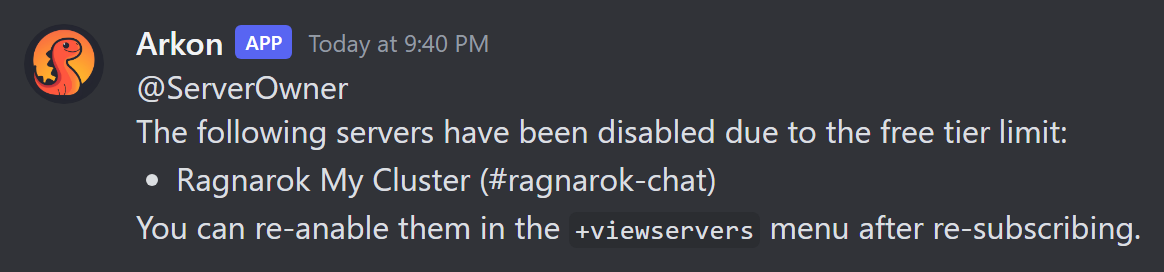
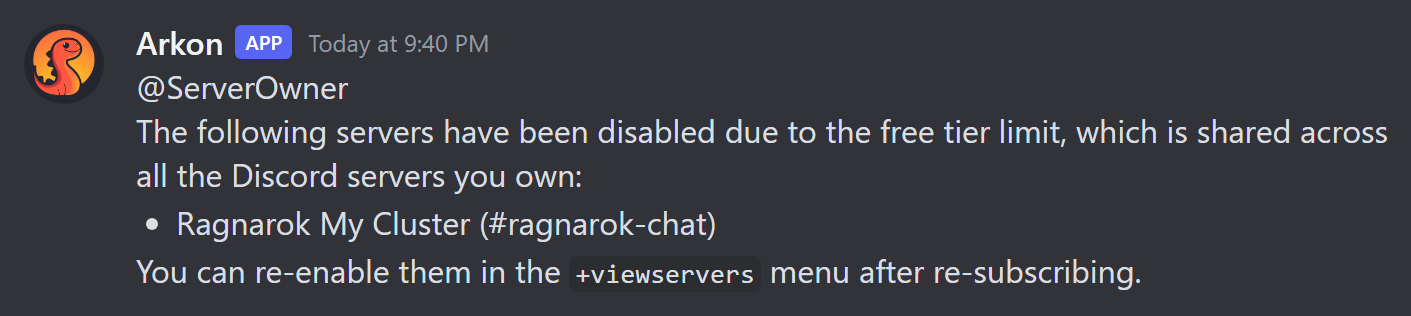
Free plan is 2 servers shared across every Discord the owner has Arkon in, and Arkon no longer leaves extra Discords; ToS states the current server and cluster limits

Changed region(s): [[0.0, 0.0588, 0.9897, 0.7647], [0.0928, 0.7941, 0.9897, 0.9118]]

diff --git a/guides/premium.md b/guides/premium.md
@@ -2,7 +2,7 @@
 title: Arkon Premium - Free vs Premium - Arkon Ark Discord Bot
 description: See what Arkon gives every Ark Discord server for free, what Premium unlocks, what it costs, how to buy it and how to cancel it.
 published: true
-date: 2026-10-25T00:00:00.000Z
+date: 2026-10-27T00:00:00.000Z
 tags: premium, pricing, upgrade, free, cancel
 editor: markdown
 dateCreated: 2024-12-19T23:11:32.671Z
@@ -10,7 +10,7 @@ dateCreated: 2024-12-19T23:11:32.671Z
 
 # Arkon Premium: Free vs Premium
 
-Arkon is free to start. Premium removes the limits (up to 100 servers instead of 1, longer graphs) and unlocks a few extra tools. It costs $10/month after a 3 day free trial, and you buy it on [GlassRelay](https://glassrelay.com/arkon) (the store site Arkon uses).
+Arkon is free to start. Premium removes the limits (up to 100 servers per Discord server instead of 2 in total, longer graphs) and unlocks a few extra tools. It costs $10/month after a 3 day free trial, and you buy it on [GlassRelay](https://glassrelay.com/arkon) (the store site Arkon uses).
 
 **You need:**
 
@@ -36,7 +36,7 @@ D --> E["Your Discord server<br/>is Premium"]
 
 | | Free | Premium |
 |---|---|---|
-| Ark servers per Discord server | 1 | Up to 100 |
+| Ark servers turned on | 2 in total, across every Discord server you own | Up to 100 per Discord server |
 | Scheduled commands | 3 | 20 |
 | Player count history kept | 7 days | Up to 5 years |
 | Status graph length | 1 hour | Up to 12 hours |
@@ -49,9 +49,12 @@ D --> E["Your Discord server<br/>is Premium"]
 | Faster event log delivery | No | Yes |
 | `+rcon` on servers you switched off | No | Yes |
 | Interactive `playerstats` menu (buttons) instead of a plain pager | No | Yes |
-| Discord servers one person can add Arkon to | 1 | 5 |
+| Discord servers one person can add Arkon to | No limit | No limit |
 
 🔹 = needs [ArkView](/guides/arkview). 🔸 = Xbox / Microsoft Store ASE only.
+
+> The 2 free servers are counted per owner, not per Discord server. If you own two Discord servers with Arkon, 1 server turned on in each uses up both. Switched-off servers do not count.
+{.is-info}
 
 Cheated tame scanning also needs ArkView set up and your valid server names filled in.
 
@@ -91,7 +94,7 @@ These have no Premium lock: game chat relay, live status channel, economy and sh
 
 Nothing is deleted at once. Arkon checks every hour and then:
 
-1. Switches off your **newest** Ark servers until only the free number are left. They are switched off, not deleted. The owner gets a ping listing them.
+1. Switches off your **newest** Ark servers, counted across every Discord server you own, until only 2 are left. They are switched off, not deleted. Each Discord server that lost a server gets a message listing them, and the owner is pinged.
 2. Cuts player count history to 7 days. Older data is deleted and does not come back.
 3. Switches off your **oldest** scheduled commands until only 3 are left.
 4. Auto-friend and alt detection settings stay saved but stop working.
@@ -113,19 +116,19 @@ F --> G
 
 To get them back, subscribe again. Then turn servers back on in the `+viewservers` menu (see [Server settings](/guides/server-settings)) and schedules in `+scheduledrcon` (see [Server control](/guides/server-control)).
 
-> Switched-off servers still count toward the limit when you add a new server.
-{.is-warning}
+> Only servers that are turned on count toward the free limit. Switch one off in `+viewservers` to make room for another.
+{.is-info}
 
 ### Messages Arkon posts when this happens
 
 Arkon posts these in your alert channel (set it with `+arkset alertchannel #channel`, Admin or Manage Server). If none is set, it falls back to your event log channel, then your Red mod log channel.
 
-- **Premium ran out (owner has too many servers):** `Premium subscription has expired! Servers over the free tier limit will be disabled soon!` The Discord server owner is pinged.
-- **Servers switched off:** `The following servers have been disabled due to the free tier limit:` then a list like `- The Island My Cluster (#island-chat)`, then `You can re-anable them in the +viewservers menu after re-subscribing.` (the typo "re-anable" is in the bot itself).
+- **Premium ran out (owner has more than 2 servers turned on across their Discord servers):** `Premium subscription has expired! Servers over the free tier limit will be disabled soon!` Arkon posts it in each of the owner's Discord servers that has servers turned on, and pings the owner.
+- **Servers switched off:** `The following servers have been disabled due to the free tier limit, which is shared across all the Discord servers you own:` then a list like `- The Island My Cluster (#island-chat)`, then `You can re-enable them in the +viewservers menu after re-subscribing.` Each Discord server only lists its own servers.
 - **Schedules switched off:** `The following schedule has been disabled due to exceeding the limit of 3 schedules:` followed by the schedule card.
 - **Offline too long (Free only):** `The following servers have been disabled because they've been inactive for 30 days:` with the server names.
 
-<img src="/assets/guide-premium-disabled-servers.png" alt="The servers switched off message" style="width: 582px; max-width: 100%;"/>
+<img src="/assets/guide-premium-disabled-servers.png?v=2" alt="The servers switched off message" style="width: 582px; max-width: 100%;"/>
 
 ## Commands
 
@@ -144,8 +147,8 @@ Admin means someone allowed to manage Arkon. See [Getting Started](/guides/getti
 
 | Problem | Why it happens | Fix |
 |---|---|---|
-| "You cannot have more than 1 server using the free version of Arkon" | You hit the free server limit | Subscribe, or remove a server. Switched-off servers still count |
-| "You have reached the maximum number of enabled servers for the free tier!" | Re-enabling a server in `+viewservers` while at the free limit | Subscribe to Premium, or switch another server off first |
+| "You cannot have more than 2 servers enabled across all the Discord servers you own on the free version of Arkon" | You already have 2 servers turned on, counting every Discord server you own | Subscribe, or switch a server off in any of your Discord servers |
+| "You have reached the maximum number of enabled servers for the free tier, counted across all the Discord servers you own!" | Re-enabling a server in `+viewservers` while at the free limit | Subscribe to Premium, or switch another server off first (it can be in another Discord server you own) |
 | "The total amount of servers I can manage is 100..." | The 100 server cap, even on Premium | Remove a server you no longer use |
 | "Sorry, the maximum time the free version of Arkon allows is 1 hour" | Status graph over 3600 seconds on Free | Use 3600 or less, or subscribe |
 | "The histogram can display a maximum of 12 hours" | More than 43200 seconds | Use 43200 or less |
@@ -154,8 +157,6 @@ Admin means someone allowed to manage Arkon. See [Getting Started](/guides/getti
 | "You have reached the maximum number of schedules for the free tier." | 3 schedules already | Delete one or subscribe |
 | "This feature requires your server owner to have an Arkon Premium subscription!" | Owner has no Premium role | Owner subscribes and joins the support Discord |
 | "You have reached the maximum number of schedules." | 20 schedules already, even on Premium | Delete one you no longer use |
-| Arkon posts "You may have the bot in up to N Discord servers(s) that you own." and leaves | You own more Discord servers with Arkon than your plan allows | See the next row |
-| Arkon left a new Discord server | You already own as many Discord servers with Arkon as your plan allows (1 Free, 5 Premium) | Subscribe, or use Arkon in fewer servers |
 
 ## Related pages
 

diff --git a/guides/server-settings.md b/guides/server-settings.md
@@ -2,7 +2,7 @@
 title: Server Settings - Arkon Ark Discord Bot
 description: Learn the +viewservers menu in Arkon, the Ark Discord bot. Set up clusters, servers, log channels and the general +arkset settings step by step.
 published: true
-date: 2026-10-12T00:00:00.000Z
+date: 2026-10-27T00:00:00.000Z
 tags: settings, clusters, servers, viewservers, arkset, setup, guide
 editor: markdown
 dateCreated: 2026-10-12T00:00:00.000Z
@@ -36,7 +36,7 @@ graph TD
     C --> F["Own settings:<br/>RCON login, chat channel,<br/>on or off"]
 ```
 
-You can have up to 25 clusters and 100 servers in one Discord server. The free version of Arkon allows 1 server; see [Free vs Premium](/guides/premium).
+You can have up to 25 clusters and 100 servers in one Discord server. The free version of Arkon allows 2 servers turned on, counted across every Discord server you own; see [Free vs Premium](/guides/premium).
 
 ## Add your first cluster and server
 
@@ -214,7 +214,7 @@ To rename a server, use the memo button and change the "Server Name" field. The 
 
 ### Free version limits on enabling servers
 
-On the free version, you can only have 1 server turned on. If you press **Disabled** to enable a server and you are at the limit, you see: "You have reached the maximum number of enabled servers for the free tier!". [Arkon Premium](/guides/premium) raises the limit.
+On the free version, you can have 2 servers turned on in total, counted across every Discord server you own that has Arkon. If you press **Disabled** to enable a server and you are at the limit, you see: "You have reached the maximum number of enabled servers for the free tier, counted across all the Discord servers you own!". [Arkon Premium](/guides/premium) raises the limit.
 
 Arkon also turns servers off by itself if they have not been online for 30 days, or if their host or port is invalid. It posts a message in your alert channel (see `+arkset alertchannel`).
 
@@ -226,9 +226,9 @@ These jobs run in the background. You do not start them. You change them with th
 |---|---|---|
 | Every 30 seconds | Arkon asks each enabled server who is online. This keeps "Last Online" fresh and works out whether a server is ASE or ASA. | Disable a server to stop it. |
 | Every 10 minutes | 🔹 Tame limit check (see `+arkset uncryolimit`). | Set the limit to `0`. |
-| Every 2 hours | Deletes player history older than your retention days. Turns off servers that have a bad host or port, or that were offline for 30 days. On the free version it also turns off servers over the free limit, newest first. | `+arkset retention`, fix the server details, or [Premium](/guides/premium). |
+| Every 2 hours | Deletes player history older than your retention days. Turns off servers that have a bad host or port, or that were offline for 30 days. On the free version it also turns off servers over the free limit, newest first, counting every Discord server the owner has Arkon in. | `+arkset retention`, fix the server details, or [Premium](/guides/premium). |
 
-When Arkon turns servers off it posts in your alert channel and tags the Discord server owner. Over the free limit the message reads "The following servers have been disabled due to the free tier limit:" followed by the server names. Offline servers get "The following servers have been disabled because they've been inactive for 30 days:". After you fix the cause, turn the server back on from its server page.
+When Arkon turns servers off it posts in your alert channel and tags the Discord server owner. Over the free limit the message reads "The following servers have been disabled due to the free tier limit, which is shared across all the Discord servers you own:" followed by the server names. Offline servers get "The following servers have been disabled because they've been inactive for 30 days:". After you fix the cause, turn the server back on from its server page.
 
 If Arkon cannot reach a server's ArkView for 10 days in a row, it clears that server's ArkView host and port and posts "The ArkView connection for ... has been reset because it hasn't been able to connect for 10 days straight!" Enter the details again with the **ArkView** button.
 
@@ -441,7 +441,7 @@ Use these at the start of a new season, when you wipe your Ark servers. Each one
 | "Failed to connect!" with "Wrong password!" | You used the join password, not the admin password. | Use the admin password. See [RCON Setup](/guides/rcon-setup). |
 | "Failed to connect!" with "Connection timed out!" or "No response!" | Arkon cannot reach the RCON port. | Check the server has a fixed IP, the RCON port is forwarded as TCP in your router, and the firewall allows it. Make sure you used the RCON port, not the query port. |
 | "A cluster with the name `x` doesn't exist!" | `+addserver` needs the exact lowercase cluster name. | Type the name as it was created, in lowercase. |
-| "You cannot have more than 1 server using the free version of Arkon" | You hit the free server limit. | Remove a server or see [Free vs Premium](/guides/premium). |
+| "You cannot have more than 2 servers enabled across all the Discord servers you own on the free version of Arkon" | You hit the free server limit, counting every Discord server you own. | Switch a server off or see [Free vs Premium](/guides/premium). |
 | "This isn't your menu!" | Someone else pressed a button. | Run `+viewservers` yourself. |
 | "This cluster has no servers added to it!" | You pressed **Servers** on an empty cluster. | Add a server with `+addserver`. |
 | "That tribelog channel is already in use by another log in this cluster!" (or a similar channel error) | Channel sharing rules were broken. | Pick a channel that follows the rules in the Logs section. Nothing was saved, so try again. |

diff --git a/guides/getting-started.md b/guides/getting-started.md
@@ -2,7 +2,7 @@
 title: Getting Started - Arkon Ark Discord Bot
 description: Invite Arkon to Discord and connect your first Ark server with the /setup wizard or by hand. Covers ASE and ASA, Admin and Mod roles, and +checklist.
 published: true
-date: 2026-10-12T00:00:00.000Z
+date: 2026-10-27T00:00:00.000Z
 tags: setup, getting-started, guide, server-owner
 editor: markdown
 dateCreated: 2023-12-10T05:14:02.435Z
@@ -175,7 +175,7 @@ Arkon replies "**main** cluster created!"
 > **Using `+addserver` with ASA?** Arkon guesses ASE or ASA by looking at players who are online during the test. If nobody is online it saves the server as ASE. The `/setup` wizard asks you directly, so use it for an ASA server if you can. There is no ASE/ASA field in the Edit Server form.
 {.is-warning}
 
-> The free version lets you add 1 server. Premium raises it to 100. See [Premium](/guides/premium).
+> The free version lets you have 2 servers turned on, counted across every Discord server you own that has Arkon. Premium raises it to 100 per Discord server. See [Premium](/guides/premium).
 {.is-info}
 
 ---
@@ -234,7 +234,7 @@ Who can run them: anyone with Discord's **Manage Server** permission, or an Admi
 
 - Needs at least one cluster first.
 - Type the cluster name in lowercase.
-- Hard limit of 100 servers per Discord server. The free version allows 1.
+- Hard limit of 100 servers per Discord server. The free version allows 2 turned on, counted across every Discord server you own.
 
 ### +delserver
 
@@ -283,7 +283,7 @@ Pick what you want. None of these is required.
 | "Cluster names can only contain letters and numbers!" | The name has a dash, underscore or symbol | Use only letters and numbers |
 | "That's an address inside your home network..." | You typed a `192.168.x.x` or `10.x.x.x` address in the wizard | Use your public IP from [whatismyip.com](https://whatismyip.com) |
 | "Invalid host address. Please enter a valid IPv4 address or hostname." | You typed the port with the IP, like `203.0.113.25:27020` | Put the IP in Host IP and the port in RCON Port |
-| "You cannot have more than 1 server using the free version of Arkon" | You hit the free server limit | Remove a server or see [Premium](/guides/premium) |
+| "You cannot have more than 2 servers enabled across all the Discord servers you own on the free version of Arkon" | You hit the free server limit, counting every Discord server you own. Both `/setup` and `+addserver` check it | Switch a server off in any of your Discord servers, or see [Premium](/guides/premium) |
 | "That chat channel is already in use by another server!" | Each server needs its own chat channel | Pick a different channel |
 | "This isn't your menu!" or "This setup wizard isn't for you!" | Only the person who ran the command can click its buttons | Run the command yourself |
 | "Database connection is not active, try again later" | Arkon's database was briefly unavailable | Wait a minute and try again |

diff --git a/guides/faq.md b/guides/faq.md
@@ -2,7 +2,7 @@
 title: FAQ & Troubleshooting - Arkon Ark Discord Bot
 description: "Fix common Arkon problems for your Ark Discord server: RCON connection errors, registration, shop, tribe logs, status channel, ArkView, Xbox and permissions."
 published: true
-date: 2026-10-12T00:00:00.000Z
+date: 2026-10-27T00:00:00.000Z
 tags: faq, troubleshooting, help, support
 editor: markdown
 dateCreated: 2026-01-17T00:00:00.000Z
@@ -48,7 +48,7 @@ Arkon is a Discord bot that helps you run Ark: Survival Evolved (ASE) and Ark: S
 
 ### Is Arkon free?
 
-Yes. Free covers the basics for 1 Ark server. [Premium](/guides/premium) removes limits and unlocks a few extra tools.
+Yes. Free covers the basics for 2 Ark servers, counted across every Discord server you own that has Arkon. [Premium](/guides/premium) removes limits and unlocks a few extra tools.
 
 ### What is the prefix?
 
@@ -732,10 +732,15 @@ The host Gamertag must be signed in first (`+xsapi authenticate`), and the playe
 
 Guide: [Premium](/guides/premium).
 
-### "You cannot have more than 1 server using the free version of Arkon"
+### "You cannot have more than 2 servers enabled across all the Discord servers you own on the free version of Arkon"
 
-You hit the free server limit: the free version allows 1 server. Switched-off servers still count.
-**Fix:** subscribe, or remove a server.
+You hit the free server limit: the free version allows 2 servers turned on in total, counting every Discord server you own that has Arkon. Switched-off servers do not count.
+**Fix:** subscribe, or switch a server off in any of your Discord servers.
+
+### "You have reached the maximum number of enabled servers for the free tier, counted across all the Discord servers you own!"
+
+You pressed **Disabled** in `+viewservers` to turn a server on, but you already have 2 turned on across your Discord servers.
+**Fix:** subscribe, or switch another server off first.
 
 ### "You have reached the maximum number of schedules for the free tier." or "You have reached the maximum number of schedules."
 
@@ -748,11 +753,6 @@ Free servers that stay offline for 30 days are switched off, and schedules can b
 ### "The total amount of servers I can manage is 100..."
 
 That is the cap, even on Premium. Remove a server you no longer use.
-
-### Arkon left a new Discord server
-
-You already own as many Discord servers with Arkon as your plan allows (1 Free, 5 Premium).
-**Fix:** subscribe, or use Arkon in fewer servers.
 
 ## Still need help
 

diff --git a/legal/tos.md b/legal/tos.md
@@ -2,7 +2,7 @@
 title: Terms of Service - Arkon Discord Bot
 description: Terms of service for the Arkon Discord bot. Usage terms, premium subscriptions, acceptable use policy, and dispute resolution for Arkon users.
 published: true
-date: 2026-06-15T00:00:00.000Z
+date: 2026-10-27T00:00:00.000Z
 tags: legal, terms-of-service
 editor: markdown
 dateCreated: 2023-12-12T02:48:07.415Z
@@ -10,7 +10,7 @@ dateCreated: 2023-12-12T02:48:07.415Z
 
 # Arkon Terms of Service
 
-Last Updated: May 13th, 2026
+Last Updated: October 27th, 2026
 
 Please read these Terms of Service ("Terms", "Terms of Service") carefully before 
 using Arkon bot (the "Service") operated by arkonbot.com ("us", "we", "our").
@@ -22,8 +22,9 @@ By using the Service you represent and warrant that you agree to these terms. If
 with any part of the terms then you do not have permission to access the Service.
 
 ## Purchases
-Arkon is a FREE service with a premium tier. The free version allows one server on a single cluster to be configured, 
-with the premium tier allowing up to 125 servers on up to 5 clusters.
+Arkon is a FREE service with a premium tier. The free version allows up to 2 enabled servers in total, counted across 
+all Discord servers you own that use Arkon. The premium tier allows up to 100 servers per Discord server. Every Discord 
+server can have up to 25 clusters.
 
 If you wish to purchase any product or service made available through the Service ("Purchase"), 
 you may be asked to supply certain information relevant to your Purchase including, without limitation, 
